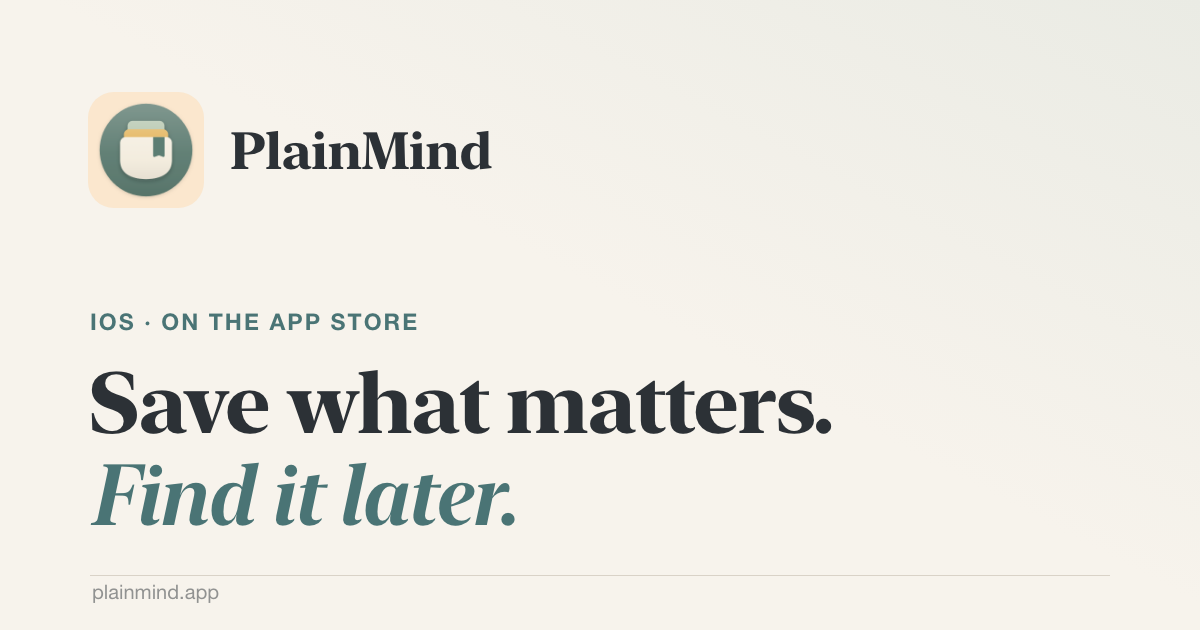
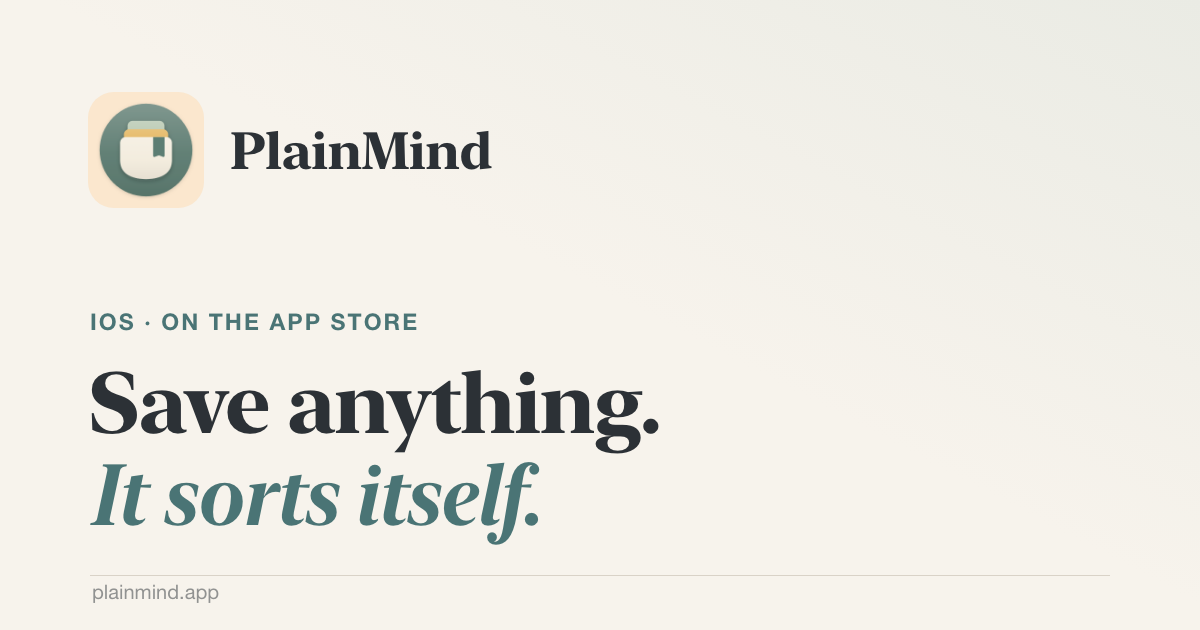
Site: share cards carry the homepage headline, re-stamped
og-home said "Save what matters. Find it later.", a retired tagline. It now
says "Save anything. It sorts itself." Cards regenerated; logo-guard re-pinned
and re-stamped so cached copies refresh.

Changed region(s): [[0.0925, 0.573, 0.7092, 0.8746]]

diff --git a/public/index.html b/public/index.html
@@ -15,7 +15,7 @@
   <meta property="og:description" content="Save from any app in one tap. PlainMind sorts it by what it is, and offers collections when your notes keep coming back to the same thing, privately and on your device. Free on the App Store." />
   <meta property="og:type" content="website" />
   <meta property="og:url" content="https://plainmind.app/" />
-  <meta property="og:image" content="https://plainmind.app/assets/og/og-home.png?v=4dfcc12c" />
+  <meta property="og:image" content="https://plainmind.app/assets/og/og-home.png?v=0ac8c819" />
   <meta property="og:image:width" content="1200" />
   <meta property="og:image:height" content="630" />
   <meta property="og:site_name" content="PlainMind" />
@@ -24,7 +24,7 @@
   <meta name="twitter:card" content="summary_large_image" />
   <meta name="twitter:title" content="PlainMind | Save anything. It sorts itself." />
   <meta name="twitter:description" content="Save from any app in one tap. PlainMind sorts it, and offers collections when your notes keep coming back to the same thing, on your device." />
-  <meta name="twitter:image" content="https://plainmind.app/assets/og/og-home.png?v=4dfcc12c" />
+  <meta name="twitter:image" content="https://plainmind.app/assets/og/og-home.png?v=0ac8c819" />
 
   <link rel="icon" type="image/png" sizes="32x32" href="assets/favicon-32.png?v=6a28cbfd" />
   <link rel="apple-touch-icon" href="assets/apple-touch-icon.png?v=e0613a99" />

diff --git a/public/roadmap/index.html b/public/roadmap/index.html
@@ -11,9 +11,9 @@
   <meta property="og:description" content="Now, Next, and Maybe for PlainMind." />
   <meta property="og:type" content="website" />
   <meta property="og:url" content="https://plainmind.app/roadmap/" />
-  <meta property="og:image" content="https://plainmind.app/assets/og/og-home.png?v=4dfcc12c" />
+  <meta property="og:image" content="https://plainmind.app/assets/og/og-home.png?v=0ac8c819" />
   <meta name="twitter:card" content="summary_large_image" />
-  <meta name="twitter:image" content="https://plainmind.app/assets/og/og-home.png?v=4dfcc12c" />
+  <meta name="twitter:image" content="https://plainmind.app/assets/og/og-home.png?v=0ac8c819" />
   <link rel="icon" type="image/png" sizes="32x32" href="../assets/favicon-32.png?v=6a28cbfd" />
   <link rel="apple-touch-icon" href="../assets/apple-touch-icon.png?v=e0613a99" />
   <script>

diff --git a/tools/.og-og-home.png.html b/tools/.og-og-home.png.html
@@ -277,7 +277,7 @@ body {
 </style></head><body>
   <div class="brand"><img src="file:///Users/keeganlanier/Library/CloudStorage/GoogleDrive-keegan@redefinedcreative.com/My Drive/2. Areas/PlainMind/PlainMind-Website/public/assets/plainmind-light.png" alt="" /><span>PlainMind</span></div>
   <div class="eyebrow">iOS · On the App Store</div>
-  <div class="head">Save what matters.<em>Find it later.</em></div>
+  <div class="head">Save anything.<em>It sorts itself.</em></div>
   <div class="rule"></div>
   <div class="domain">plainmind.app</div>
 </body></html>
